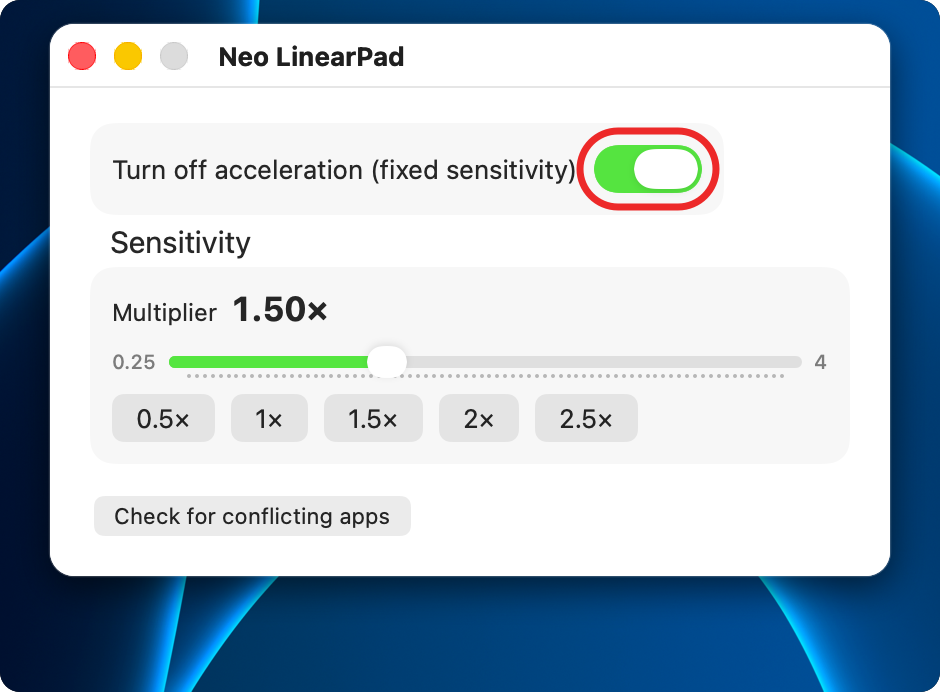
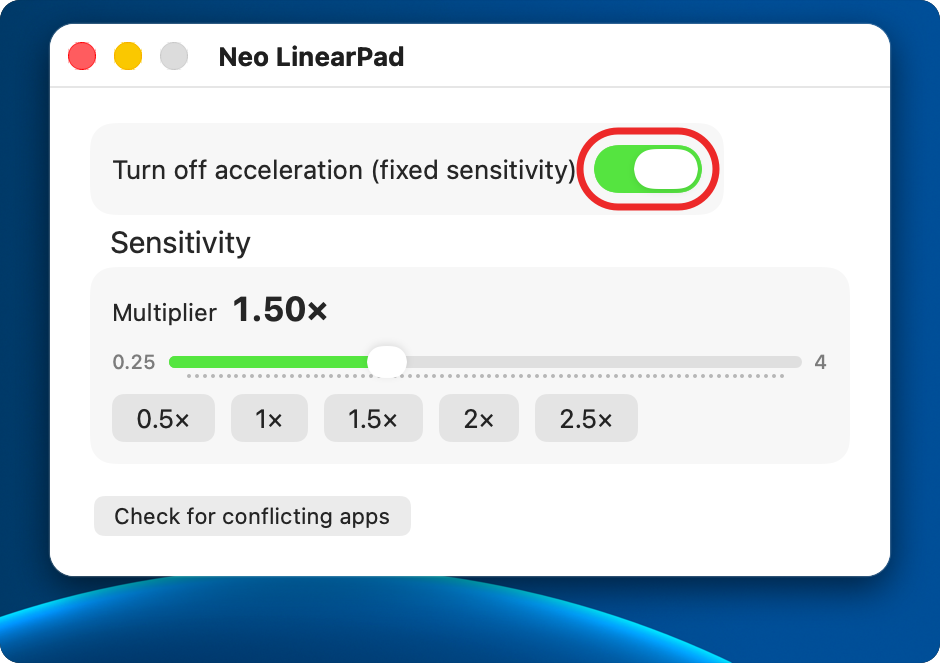
Install step 5: calmer part of the desktop picture, shorter bottom margin

diff --git a/en/index.html b/en/index.html
@@ -59,7 +59,7 @@
             </li>
             <li>Click the <span class="notranslate" translate="no">Neo LinearPad</span> icon in the menu bar at the top right of the screen, then turn on the switch.
               <img src="../assets/guide/install-5-menubar.png?v=5" alt="The menu bar icon" loading="lazy">
-              <img src="../assets/guide/en/install-5-switch.png?v=3" alt="Turning on the switch" loading="lazy">
+              <img src="../assets/guide/en/install-5-switch.png?v=4" alt="Turning on the switch" loading="lazy">
             </li>
           </ol>
         </div>

diff --git a/ja/index.html b/ja/index.html
@@ -60,7 +60,7 @@
             </li>
             <li>PC右上に出るアイコンをクリックし、スイッチをオンにします。
               <img src="../assets/guide/install-5-menubar.png?v=5" alt="メニューバーのアイコン" loading="lazy">
-              <img src="../assets/guide/install-5-switch.png?v=8" alt="スイッチをオンにする" loading="lazy">
+              <img src="../assets/guide/install-5-switch.png?v=9" alt="スイッチをオンにする" loading="lazy">
             </li>
           </ol>
         </div>
